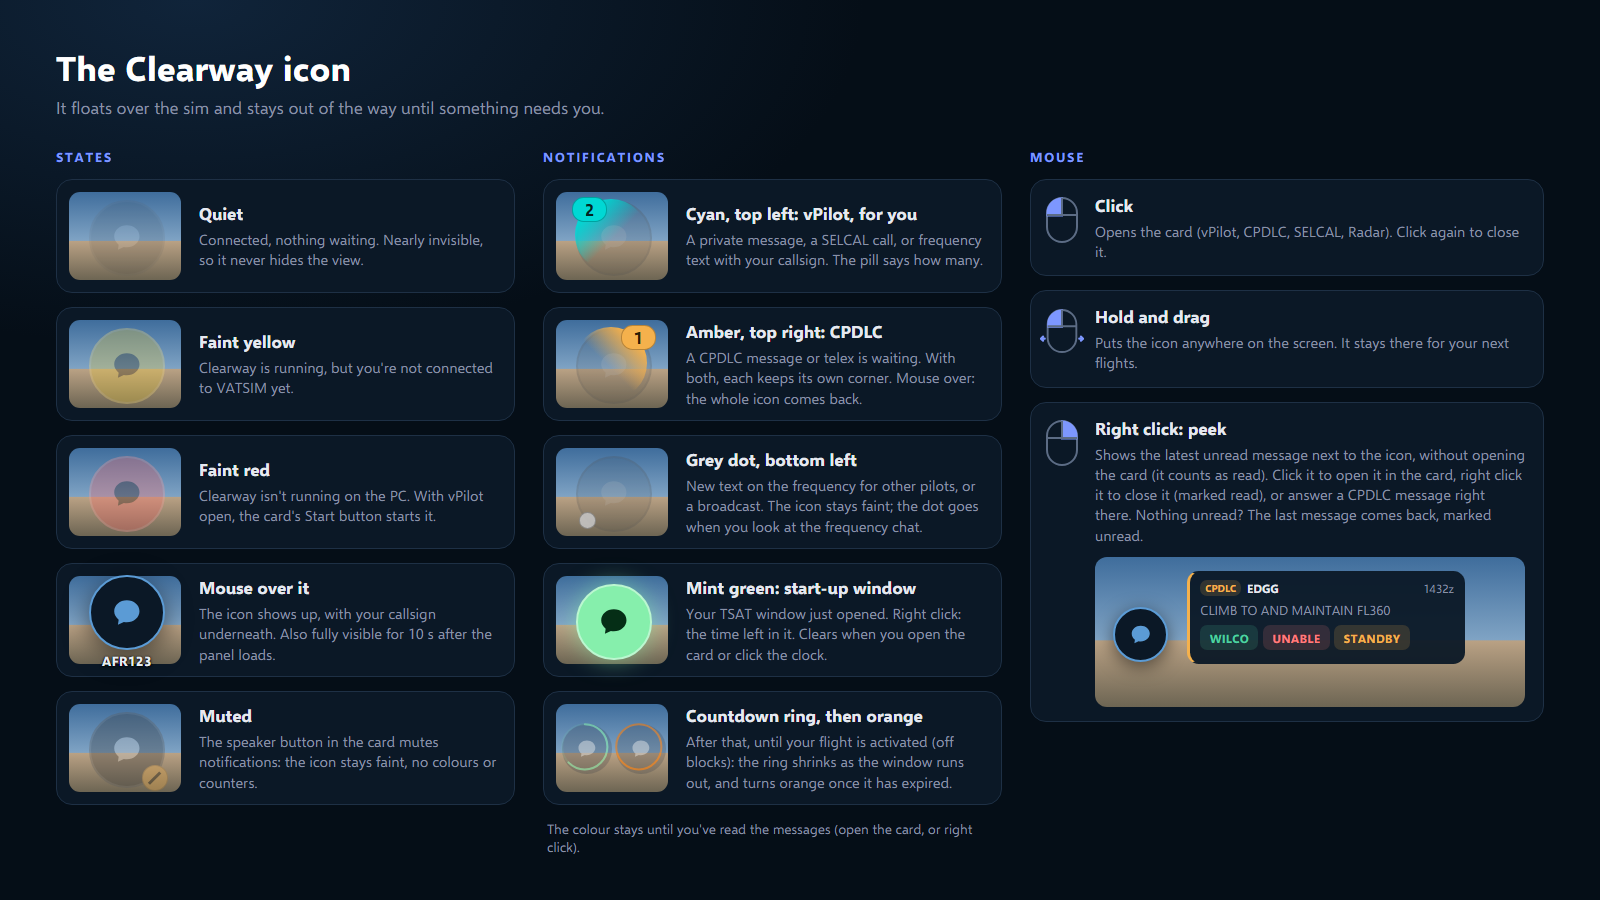
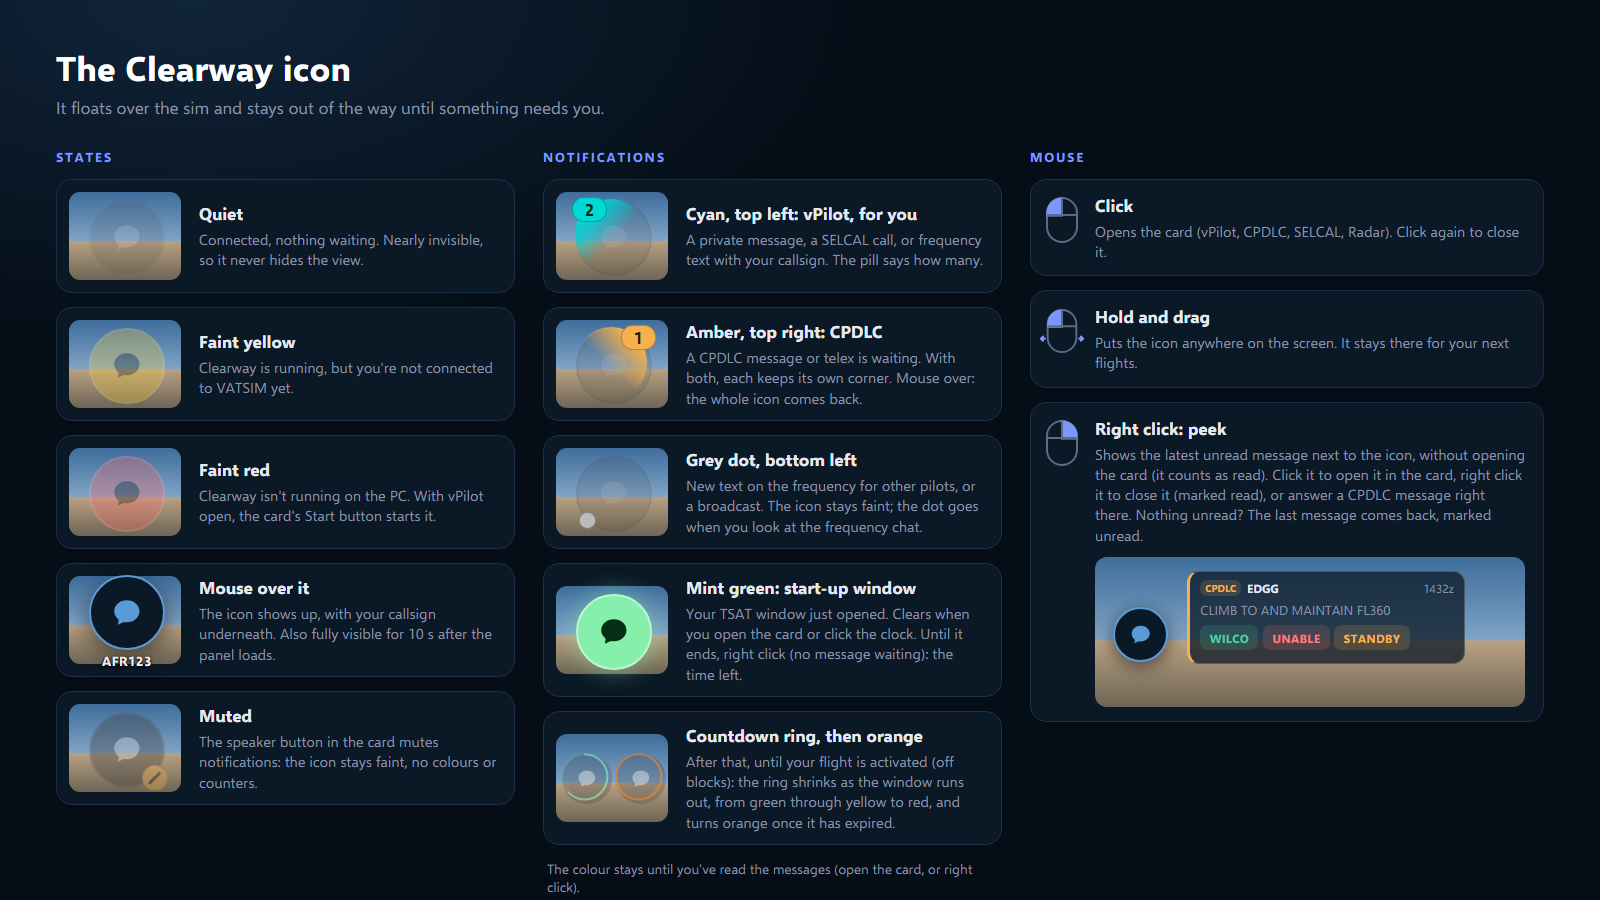
Add files via upload

Changed region(s): [[0.3438, 0.6222, 0.5938, 0.9956], [0.7188, 0.6222, 0.9375, 0.7467]]

diff --git a/msfs-panel/html_ui/InGamePanels/ClearwayPanel/ClearwayPanel.js b/msfs-panel/html_ui/InGamePanels/ClearwayPanel/ClearwayPanel.js
@@ -243,9 +243,10 @@
     if (!h) return;
     h.textContent = plain(text || "");
     h.style.color = err ? "var(--rose)" : "var(--muted)";
+    h.classList.toggle("on", !!text);            // the vPilot one floats above the message box while it has text
     var key = id || "default";
     clearTimeout(hintTimers[key]);
-    if (text) hintTimers[key] = setTimeout(function () { h.textContent = ""; }, err ? 9000 : 4000);
+    if (text) hintTimers[key] = setTimeout(function () { h.textContent = ""; h.classList.remove("on"); }, err ? 9000 : 4000);
   }
   function attr(t, name) { return t && t.getAttribute ? t.getAttribute(name) : null; }
   function pick(t, name) { var n = t && t.closest ? t.closest("[" + name + "]") : null; return n ? n.getAttribute(name) : null; }
@@ -1218,21 +1219,25 @@
     if (now - lastPeekAt < 350) return;      // mousedown + contextmenu fire for the same click
     lastPeekAt = now;
     if (!state || !reachable) return;
-    if (tsatAlertOn) return showTsatPeek();   // icon in mint green: the start-up window and its countdown instead
-    var msgs = state.messages.filter(peekable), vp = null, cp = null, last = null;
+    // what a right click shows, in order: an unread message (for you or CPDLC), new frequency text for others (the
+    // grey dot), then during the start-up window (TSAT -5 to +6) its countdown, else the last message again
+    var msgs = state.messages.filter(peekable), vp = null, cp = null, quiet = null, last = null;
     for (var i = msgs.length - 1; i >= 0; i--) {
       var m = msgs[i];
       if (!last) last = m;
       if (!m.acked && ackPending[m.id] === undefined) {
         if (VP[m.kind]) { if (!vp) vp = m; } else if (!cp) cp = m;
-      }
+      } else if (m.quiet && !quiet && ackPending[m.id] === undefined) quiet = m;
     }
-    var target = vp || cp;
+    var target = vp || cp || quiet;
     if (target) {
       ackPending[target.id] = 1;
       target.acked = true;
+      target.quiet = false;
       act("ack", { id: target.id }, null, null, function () { delete ackPending[target.id]; });
       showPeek(target, false);
+    } else if (tsatWindowOpen()) {
+      showTsatPeek();
     } else if (last) {
       last.acked = false;
       act("unack", { id: last.id }, null);
@@ -1240,8 +1245,23 @@
     }
   }
 
-  // Right click on the icon while it's mint green (start-up window open): "Start-up window" and a live countdown to
-  // its end (TSAT +6), ticking every second while it's shown. A click on it opens the card
+  // Right click on the icon during the start-up window (TSAT -5 to +6, full green icon or countdown ring), when no
+  // message is waiting: "Start-up window" and a live countdown to its end, ticking every second while it's shown, in
+  // the countdown's colour. A click on it opens the card
+  function tsatWindowOpen() {
+    var t = tsatNow(), now = Date.now();
+    return !!t && now >= t.tsat_ms - 300000 && now < t.tsat_ms + 360000;
+  }
+  // the countdown's colour as the window runs out: mint green, then yellow, orange and red (left = 1 .. 0)
+  var WINDOW_STOPS = [[0, [239, 68, 68]], [0.2, [249, 115, 22]], [0.5, [253, 224, 71]], [1, [134, 239, 172]]];
+  function windowColor(left, alpha) {
+    left = Math.max(0, Math.min(1, left));
+    var a = WINDOW_STOPS[0], b = WINDOW_STOPS[WINDOW_STOPS.length - 1];
+    for (var i = 1; i < WINDOW_STOPS.length; i++) if (left <= WINDOW_STOPS[i][0]) { a = WINDOW_STOPS[i - 1]; b = WINDOW_STOPS[i]; break; }
+    var f = (left - a[0]) / ((b[0] - a[0]) || 1), c = [];
+    for (var k = 0; k < 3; k++) c.push(Math.round(a[1][k] + (b[1][k] - a[1][k]) * f));
+    return "rgba(" + c.join(", ") + ", " + (alpha == null ? 1 : alpha) + ")";
+  }
   var tsatPeekTimer = null;
   function showTsatPeek() {
     var t = tsatNow(), p = el("cw-peek");
@@ -1249,12 +1269,14 @@
     peekMsg = null;
     p.className = "tsat";
     function draw() {
-      var s = Math.max(0, Math.floor((t.tsat_ms + 360000 - Date.now()) / 1000));
-      p.innerHTML = "<div class=\"cw-peek-head\"><span class=\"cw-peek-kind\">TSAT</span>" +
+      var ms = t.tsat_ms + 360000 - Date.now(), s = Math.max(0, Math.floor(ms / 1000));
+      var col = windowColor(ms / 660000);
+      p.style.borderLeftColor = col;
+      p.innerHTML = "<div class=\"cw-peek-head\"><span class=\"cw-peek-kind\" style=\"color:" + col + "\">TSAT</span>" +
         "<span class=\"cw-station\">" + esc(t.airport || "") + "</span>" +
         "<span class=\"cw-time\">" + (t.suggested ? "TOBT " + esc(t.tobt) : "TSAT " + esc(t.tsat)) + "z</span></div>" +
         "<div class=\"cw-peek-text\">Start-up window</div>" +
-        "<div class=\"cw-peek-big\">" + pad2(Math.floor(s / 60)) + ":" + pad2(s % 60) + " left</div>";
+        "<div class=\"cw-peek-big\" style=\"color:" + col + "\">" + pad2(Math.floor(s / 60)) + ":" + pad2(s % 60) + " left</div>";
     }
     draw();
     clearInterval(tsatPeekTimer);
@@ -1282,6 +1304,7 @@
       foot += "<div class=\"cw-actions\">" + btns + "</div><div class=\"cw-peek-foot\" id=\"cw-peek-state\"></div>";
     }
     p.className = isVp ? "vp" : "";
+    p.style.borderLeftColor = "";                          // the start-up window peek colours it while it counts down
     p.innerHTML = "<div class=\"cw-peek-head\"><span class=\"cw-peek-kind\">" + esc(label) + "</span>" +
       "<span class=\"cw-station\">" + esc(m.station) + "</span>" +
       (m.freq ? "<span class=\"cw-freq\">" + esc(m.freq) + "&nbsp;</span>" : "") +
@@ -1621,12 +1644,13 @@
     ctx.clearRect(0, 0, size, size);
     ctx.lineWidth = lw;
     if (!late) {                                   // faint track under the arc
-      ctx.strokeStyle = "rgba(134, 239, 172, 0.18)";
+      ctx.strokeStyle = windowColor(left, 0.18);
       ctx.beginPath(); ctx.arc(c, c, r, 0, 2 * Math.PI); ctx.stroke();
     }
     if (left <= 0) return;
-    // from 12 o'clock clockwise for what's left: the end retracts counterclockwise towards 12 as time runs out
-    ctx.strokeStyle = late ? "#ff7a00" : "#86efac";
+    // from 12 o'clock clockwise for what's left: the end retracts counterclockwise towards 12 as time runs out, and its
+    // colour fades from mint green through yellow and orange to red; electric orange once the window has expired
+    ctx.strokeStyle = late ? "#ff7a00" : windowColor(left);
     ctx.lineCap = late ? "butt" : "round";
     ctx.beginPath(); ctx.arc(c, c, r, -Math.PI / 2, -Math.PI / 2 + 2 * Math.PI * left); ctx.stroke();
   }

diff --git a/msfs-panel/html_ui/InGamePanels/ClearwayPanel/ClearwayPanel.css b/msfs-panel/html_ui/InGamePanels/ClearwayPanel/ClearwayPanel.css
@@ -806,11 +806,11 @@ canvas.cw-tring { pointer-events: none; }
 #cw-notes { display: flex; flex-direction: column; }
 #cw-notes .cw-notes { flex: 1 1 auto; height: auto; min-height: 0; }
 /* scrollbars drawn by the panel (MSFS shows none): a thin track on the right of each scrolling area, thumb to drag */
-.cw-sbar { position: absolute; right: 0.15em; width: 0.55em; border-radius: 0.3em; background-color: rgba(255, 255, 255, 0.05);
-  z-index: 5; cursor: pointer; }
-.cw-sthumb { position: absolute; left: 0.1em; right: 0.1em; border-radius: 0.25em; background-color: var(--muted); opacity: 0.55; }
+/* a third of the first size (0.2em thumb), inside the lists' right padding so it never sits on the cards, above
+   everything. The bar itself is a wider, invisible grab area around the thin thumb */
+.cw-sbar { position: absolute; right: 0.05em; width: 0.7em; z-index: 20; cursor: pointer; }
+.cw-sthumb { position: absolute; left: 0.25em; right: 0.25em; border-radius: 0.1em; background-color: var(--muted); opacity: 0.6; }
 .cw-sbar:hover .cw-sthumb { opacity: 0.9; }
-#cw-root.light .cw-sbar { background-color: rgba(0, 0, 0, 0.06); }
 /* Card and peek at 75% opacity (glass, like //42 Flow): only their background colours are see-through (text and buttons
    stay solid), so the sim shows behind them. Inner boxes are tints over the card's background, so they don't stack up into
    solid patches. Not on the Radar tab (.radar), where the map stays fully opaque */
@@ -842,6 +842,20 @@ canvas.cw-tring { pointer-events: none; }
 #cw-peek.tsat { border-left-color: #86efac; }
 #cw-peek.tsat .cw-peek-kind { background-color: rgba(134, 239, 172, 0.16); color: #86efac; }
 #cw-peek .cw-peek-big { font-size: 1.6em; font-weight: bold; color: #86efac; margin-top: 0.15em; }
+/* vPilot action messages ("Connecting...", errors): a small label floating just above the message box, so they don't
+   make the box taller (which pushed its bottom out of the card's fixed height) */
+.cw-compose { position: relative; }
+#cw-vp-hint { display: none; position: absolute; left: 0.8em; right: 0.8em; bottom: 100%; margin-bottom: 0.35em; z-index: 6;
+  padding: 0.35em 0.65em; border-radius: 0.55em; font-size: 0.82em; background-color: #0b1826; border: 1px solid rgba(255, 255, 255, 0.14); }
+#cw-vp-hint.on { display: block; }
+#cw-root.black #cw-vp-hint { background-color: #0e0e0e; }
+#cw-root.light #cw-vp-hint { background-color: #ffffff; border-color: rgba(30, 40, 70, 0.14); }
+/* SELCAL tab: slimmer bar and section headers, so the bar, the check box and the Generate / Saved headers all fit
+   in the card when the tab opens */
+#cw-pane-selcal .cw-bar { padding-top: 0.35em; padding-bottom: 0.35em; }
+#cw-pane-selcal .cw-section-head { padding-top: 0.42em; padding-bottom: 0.42em; }
+#cw-pane-selcal > .cw-sc-body { padding-top: 0.5em; padding-bottom: 0.4em; }
+#cw-pane-selcal > .cw-sc-body .cw-sc-check { margin-top: 0.35em; padding-top: 0.45em; }
 /* "Close vPilot?" under the vPilot bar, after clicking the green power button */
 .cw-vp-ask { display: flex; align-items: center; padding: 0.45em 0.8em; background-color: var(--rose-soft);
   border-bottom: 1px solid var(--line); flex-shrink: 0; }

diff --git a/companion/web/radar/radar.js b/companion/web/radar/radar.js
@@ -1119,7 +1119,10 @@
     var btnFont = 12 * SIZES["1440p"];
     el("tools").style.fontSize = btnFont + "px";
     el("topright").style.fontSize = btnFont + "px";
-    el("credit").style.fontSize = (btnFont * 0.75) + "px";   // the map credits too (12 px, the 1440p size)
+    // the map credits too (12 px, the 1440p size); on a narrow (compact) radar a shorter line, in smaller text
+    var narrowRadar = r.width < btnFont * 46;
+    el("radar").classList.toggle("narrow", narrowRadar);
+    el("credit").style.fontSize = (btnFont * (narrowRadar ? 0.62 : 0.75)) + "px";
     var need = el("tools").offsetTop + el("tools").offsetHeight, avail = r.height - 4;
     if (need > avail && avail > 40) {                    // a small window: shrink the button column to fit
       btnFont = Math.max(6, btnFont * avail / need);
@@ -1345,7 +1348,9 @@
     '</div>' +
     '<div id="rd-topright">' +
       '<div id="rd-status">connecting...</div>' +
-      '<div id="rd-expand" class="hidden" title="Bigger radar"><i class="a"></i><i class="b"></i></div>' +
+      '<div id="rd-expand" class="hidden" title="Bigger radar">' +
+        '<svg class="ex" viewBox="0 0 24 24"><path d="M14 4h6v6M20 4l-7 7M10 20H4v-6M4 20l7-7"/></svg>' +     // arrows out
+        '<svg class="sh" viewBox="0 0 24 24"><path d="M20 4l-6 6M14 4v6h6M4 20l6-6M10 20v-6H4"/></svg></div>' +   // arrows in
       '<div id="rd-detach" class="hidden" title="Open the radar in its own window"><i class="box"></i><i class="out"></i></div>' +
     '</div>' +
     '<div id="rd-card" class="hidden"></div>' +
@@ -1354,7 +1359,8 @@
       '<div id="rd-tArr" class="tc arr" title="Arrivals: show their routes"><span id="rd-tArrN">0</span><i>ARR</i></div>' +
     '</div>' +
     '<div id="rd-perf" class="hidden"></div>' +
-    '<div id="rd-credit">Map (c) Esri, HERE, Garmin, (c) OpenStreetMap contributors | VATGlasses CC BY-NC-SA | VATSpy CC BY-SA</div>';
+    '<div id="rd-credit"><span class="full">Map (c) Esri, HERE, Garmin, (c) OpenStreetMap contributors | VATGlasses CC BY-NC-SA | VATSpy CC BY-SA</span>' +
+      '<span class="short">(c) Esri, HERE, Garmin, OpenStreetMap | VATGlasses | VATSpy</span></div>';
 
   // Clearway mounts the radar once its panel is ready; the browser test page calls mount() itself.
   var started = false;

diff --git a/msfs-panel/html_ui/InGamePanels/ClearwayPanel/radar.js b/msfs-panel/html_ui/InGamePanels/ClearwayPanel/radar.js
@@ -1119,7 +1119,10 @@
     var btnFont = 12 * SIZES["1440p"];
     el("tools").style.fontSize = btnFont + "px";
     el("topright").style.fontSize = btnFont + "px";
-    el("credit").style.fontSize = (btnFont * 0.75) + "px";   // the map credits too (12 px, the 1440p size)
+    // the map credits too (12 px, the 1440p size); on a narrow (compact) radar a shorter line, in smaller text
+    var narrowRadar = r.width < btnFont * 46;
+    el("radar").classList.toggle("narrow", narrowRadar);
+    el("credit").style.fontSize = (btnFont * (narrowRadar ? 0.62 : 0.75)) + "px";
     var need = el("tools").offsetTop + el("tools").offsetHeight, avail = r.height - 4;
     if (need > avail && avail > 40) {                    // a small window: shrink the button column to fit
       btnFont = Math.max(6, btnFont * avail / need);
@@ -1345,7 +1348,9 @@
     '</div>' +
     '<div id="rd-topright">' +
       '<div id="rd-status">connecting...</div>' +
-      '<div id="rd-expand" class="hidden" title="Bigger radar"><i class="a"></i><i class="b"></i></div>' +
+      '<div id="rd-expand" class="hidden" title="Bigger radar">' +
+        '<svg class="ex" viewBox="0 0 24 24"><path d="M14 4h6v6M20 4l-7 7M10 20H4v-6M4 20l7-7"/></svg>' +     // arrows out
+        '<svg class="sh" viewBox="0 0 24 24"><path d="M20 4l-6 6M14 4v6h6M4 20l6-6M10 20v-6H4"/></svg></div>' +   // arrows in
       '<div id="rd-detach" class="hidden" title="Open the radar in its own window"><i class="box"></i><i class="out"></i></div>' +
     '</div>' +
     '<div id="rd-card" class="hidden"></div>' +
@@ -1354,7 +1359,8 @@
       '<div id="rd-tArr" class="tc arr" title="Arrivals: show their routes"><span id="rd-tArrN">0</span><i>ARR</i></div>' +
     '</div>' +
     '<div id="rd-perf" class="hidden"></div>' +
-    '<div id="rd-credit">Map (c) Esri, HERE, Garmin, (c) OpenStreetMap contributors | VATGlasses CC BY-NC-SA | VATSpy CC BY-SA</div>';
+    '<div id="rd-credit"><span class="full">Map (c) Esri, HERE, Garmin, (c) OpenStreetMap contributors | VATGlasses CC BY-NC-SA | VATSpy CC BY-SA</span>' +
+      '<span class="short">(c) Esri, HERE, Garmin, OpenStreetMap | VATGlasses | VATSpy</span></div>';
 
   // Clearway mounts the radar once its panel is ready; the browser test page calls mount() itself.
   var started = false;

diff --git a/companion/web/radar/radar.css b/companion/web/radar/radar.css
@@ -69,10 +69,12 @@
   background: rgba(16, 21, 29, 0.85); border: 1px solid #222b37;
 }
 #rd-expand:hover { background: rgba(32, 42, 56, 0.95); border-color: #2f5672; }
-#rd-expand i.a { position: absolute; left: 0.45em; top: 0.45em; width: 0.95em; height: 0.95em; box-sizing: content-box;
-  border: 0.13em solid #cfd8e3; border-radius: 0.12em; }
-#rd-expand i.b { display: none; }
-#rd-radar.big #rd-expand i.a { left: 0.72em; top: 0.72em; width: 0.42em; height: 0.42em; border-color: #8fd3ff; }
+/* arrows pointing out (make it bigger) or, when big, pointing in (make it smaller) */
+#rd-expand svg { position: absolute; left: 0.35em; top: 0.35em; width: 1.4em; height: 1.4em; fill: none; stroke: #cfd8e3;
+  stroke-width: 2.2; stroke-linecap: round; stroke-linejoin: round; }
+#rd-expand svg.sh { display: none; stroke: #8fd3ff; }
+#rd-radar.big #rd-expand svg.ex { display: none; }
+#rd-radar.big #rd-expand svg.sh { display: block; }
 #rd-radar .hidden { display: none !important; }
 
 #rd-card {
@@ -111,6 +113,10 @@
 }
 #rd-credit { position: absolute; right: 0.5em; bottom: 0.33em; font-size: 0.75em; color: #5d6876; pointer-events: none;
   max-width: 55%; text-align: right; line-height: 1.2; }   /* stays in the right half on a narrow (compact) radar */
+#rd-credit .short { display: none; }
+#rd-radar.narrow #rd-credit { max-width: 70%; }
+#rd-radar.narrow #rd-credit .full { display: none; }
+#rd-radar.narrow #rd-credit .short { display: inline; }
 
 /* target button (was TRK): 1 = centred once (half lit), 2 = tracking (lit) */
 #rd-tools .btn.tog.target { display: flex; align-items: center; justify-content: center; line-height: normal; }

diff --git a/msfs-panel/html_ui/InGamePanels/ClearwayPanel/radar.css b/msfs-panel/html_ui/InGamePanels/ClearwayPanel/radar.css
@@ -69,10 +69,12 @@
   background: rgba(16, 21, 29, 0.85); border: 1px solid #222b37;
 }
 #rd-expand:hover { background: rgba(32, 42, 56, 0.95); border-color: #2f5672; }
-#rd-expand i.a { position: absolute; left: 0.45em; top: 0.45em; width: 0.95em; height: 0.95em; box-sizing: content-box;
-  border: 0.13em solid #cfd8e3; border-radius: 0.12em; }
-#rd-expand i.b { display: none; }
-#rd-radar.big #rd-expand i.a { left: 0.72em; top: 0.72em; width: 0.42em; height: 0.42em; border-color: #8fd3ff; }
+/* arrows pointing out (make it bigger) or, when big, pointing in (make it smaller) */
+#rd-expand svg { position: absolute; left: 0.35em; top: 0.35em; width: 1.4em; height: 1.4em; fill: none; stroke: #cfd8e3;
+  stroke-width: 2.2; stroke-linecap: round; stroke-linejoin: round; }
+#rd-expand svg.sh { display: none; stroke: #8fd3ff; }
+#rd-radar.big #rd-expand svg.ex { display: none; }
+#rd-radar.big #rd-expand svg.sh { display: block; }
 #rd-radar .hidden { display: none !important; }
 
 #rd-card {
@@ -111,6 +113,10 @@
 }
 #rd-credit { position: absolute; right: 0.5em; bottom: 0.33em; font-size: 0.75em; color: #5d6876; pointer-events: none;
   max-width: 55%; text-align: right; line-height: 1.2; }   /* stays in the right half on a narrow (compact) radar */
+#rd-credit .short { display: none; }
+#rd-radar.narrow #rd-credit { max-width: 70%; }
+#rd-radar.narrow #rd-credit .full { display: none; }
+#rd-radar.narrow #rd-credit .short { display: inline; }
 
 /* target button (was TRK): 1 = centred once (half lit), 2 = tracking (lit) */
 #rd-tools .btn.tog.target { display: flex; align-items: center; justify-content: center; line-height: normal; }

diff --git a/companion/clearway/tsat.py b/companion/clearway/tsat.py
@@ -6,7 +6,7 @@ the public vIFF API so the panel clock can count down to the start-up window. Re
 Kept light on the community server:
 - only while vPilot is connected (not as an observer), your flight is in the VATSIM data with a departure
   airport, and you're on the ground;
-- one request for your departure airport every 3 minutes until a TSAT appears and the flight is activated
+- one request for your departure airport every 2.5 minutes until a TSAT appears and the flight is activated
   (off blocks);
 - then nothing more, unless the flight has a CTOT (checked once a minute, CTOTs move);
 - it stops after take-off. Only your own flight is kept; everyone else's data is dropped at once.
@@ -26,7 +26,7 @@ import urllib.request
 log = logging.getLogger("clearway.tsat")
 
 VIFF_URL = os.environ.get("CLEARWAY_VIFF_URL", "https://api.viffsys.com").rstrip("/")
-WAIT_FOR_TSAT = 180        # seconds between checks until a TSAT is set
+WAIT_FOR_TSAT = 150        # seconds between checks until a TSAT is set and the flight is activated (2:30)
 WITH_CTOT = 60             # seconds between checks while the flight has a CTOT
 AIRBORNE_GS = 50           # kt: above this you've left the ground
 LOOP = 10                  # seconds between looks at the conditions (no request)
@@ -153,7 +153,7 @@ class TsatMixin:
                     self._tsat_next = now + WITH_CTOT
                 elif activated:
                     self._tsat_done = True     # TSAT known and the flight is active: nothing more to learn
-                # else: keep checking every 3 min, for activation (and a real TSAT when it was only suggested)
+                # else: keep checking every 2:30, for activation (and a real TSAT when it was only suggested)
         with self.lock:
             self.tsat_error = ""
             if info != self.tsat:

diff --git a/CHANGELOG.md b/CHANGELOG.md
@@ -11,11 +11,16 @@
 - MSFS panel: the LT clock shows the real local time where your aircraft is (flying in California from Paris: California time), not your PC's time. It doesn't follow the time of day set in the sim
 - MSFS panel: the green vPilot power button now also closes vPilot, after a "Close vPilot?" confirmation (Close / Cancel, gone after 8 seconds). vPilot is asked to close like clicking its X, so it disconnects and shuts down normally. With "Quit Clearway when vPilot closes" on, Clearway quits too, as when you close vPilot yourself
 - MSFS panel: the start-up window colour is a softer mint green (#86efac) instead of the electric yellow-green, on the icon and the countdown ring
-- MSFS panel: right click the mint-green icon (start-up window open) to see "Start-up window" with a live "MM:SS left" countdown to its end (TSAT +6). Click it to open the card
+- MSFS panel: during the start-up window (TSAT -5 to +6, full green icon or countdown ring), a right click on the icon shows "Start-up window" with a live "MM:SS left" countdown to its end, once no message is waiting: unread messages come first, including new frequency text for others, which a right click now also shows and marks read. Click the countdown to open the card
+- MSFS panel: the countdown (ring and timer) fades from mint green through yellow and orange to red as the start-up window runs out
 - MSFS panel: the TSAT countdown ring is the size of the icon again (in 1.2.0 it showed up far too big next to the icon in the sim)
+- TSAT clock: Clearway checks the CDM data every 2:30 instead of every 3 minutes (until a TSAT is set and your flight is activated; once a minute with a CTOT, as before)
 - TSAT clock: once your flight is activated (off blocks), the clock goes back to your usual one. Before, it kept counting up in red past the window while you taxied, until take-off
 - CPDLC: a **ROGER** button for text from ATC (panel, peek and phone). Text that needs an answer shows ROGER next to STANDBY (before, only STANDBY, so you had to type ROGER); text that needs none (e.g. "APPROVED. REPORT BACK") gets an optional ROGER, and you can still just mark it read. Logon and unit notices get none
-- MSFS panel: scrollbars you can drag (or click to jump) on the vPilot chat, the ATC list, the CPDLC messages, the SELCAL tab and the notepad. MSFS shows no scrollbars in panels, so only the mouse wheel worked
+- MSFS panel: slim scrollbars you can drag (or click to jump) on the vPilot chat, the ATC list, the CPDLC messages, the SELCAL tab and the notepad. MSFS shows no scrollbars in panels, so only the mouse wheel worked
+- MSFS panel: vPilot action messages ("Connecting...", errors) float just above the message box instead of being cut off at the bottom of the card
+- MSFS panel: slimmer SELCAL headers, so the whole tab fits when it opens
+- Radar: on the compact radar the map credits are shorter and smaller, and the expand button shows arrows (out to make it bigger, in to make it smaller)
 - MSFS panel: right clicking the peek to close it also marks its message read (also when the peek had brought back your last message as unread)
 - CPDLC: a logon is also confirmed when the station answers with CURRENT ATC UNIT instead of LOGON ACCEPTED (some controller software does, e.g. BIRD): it shows as a message from the station, answers your LOGON request and stops it waiting. Before, nothing appeared and the request stayed "awaiting"
 
